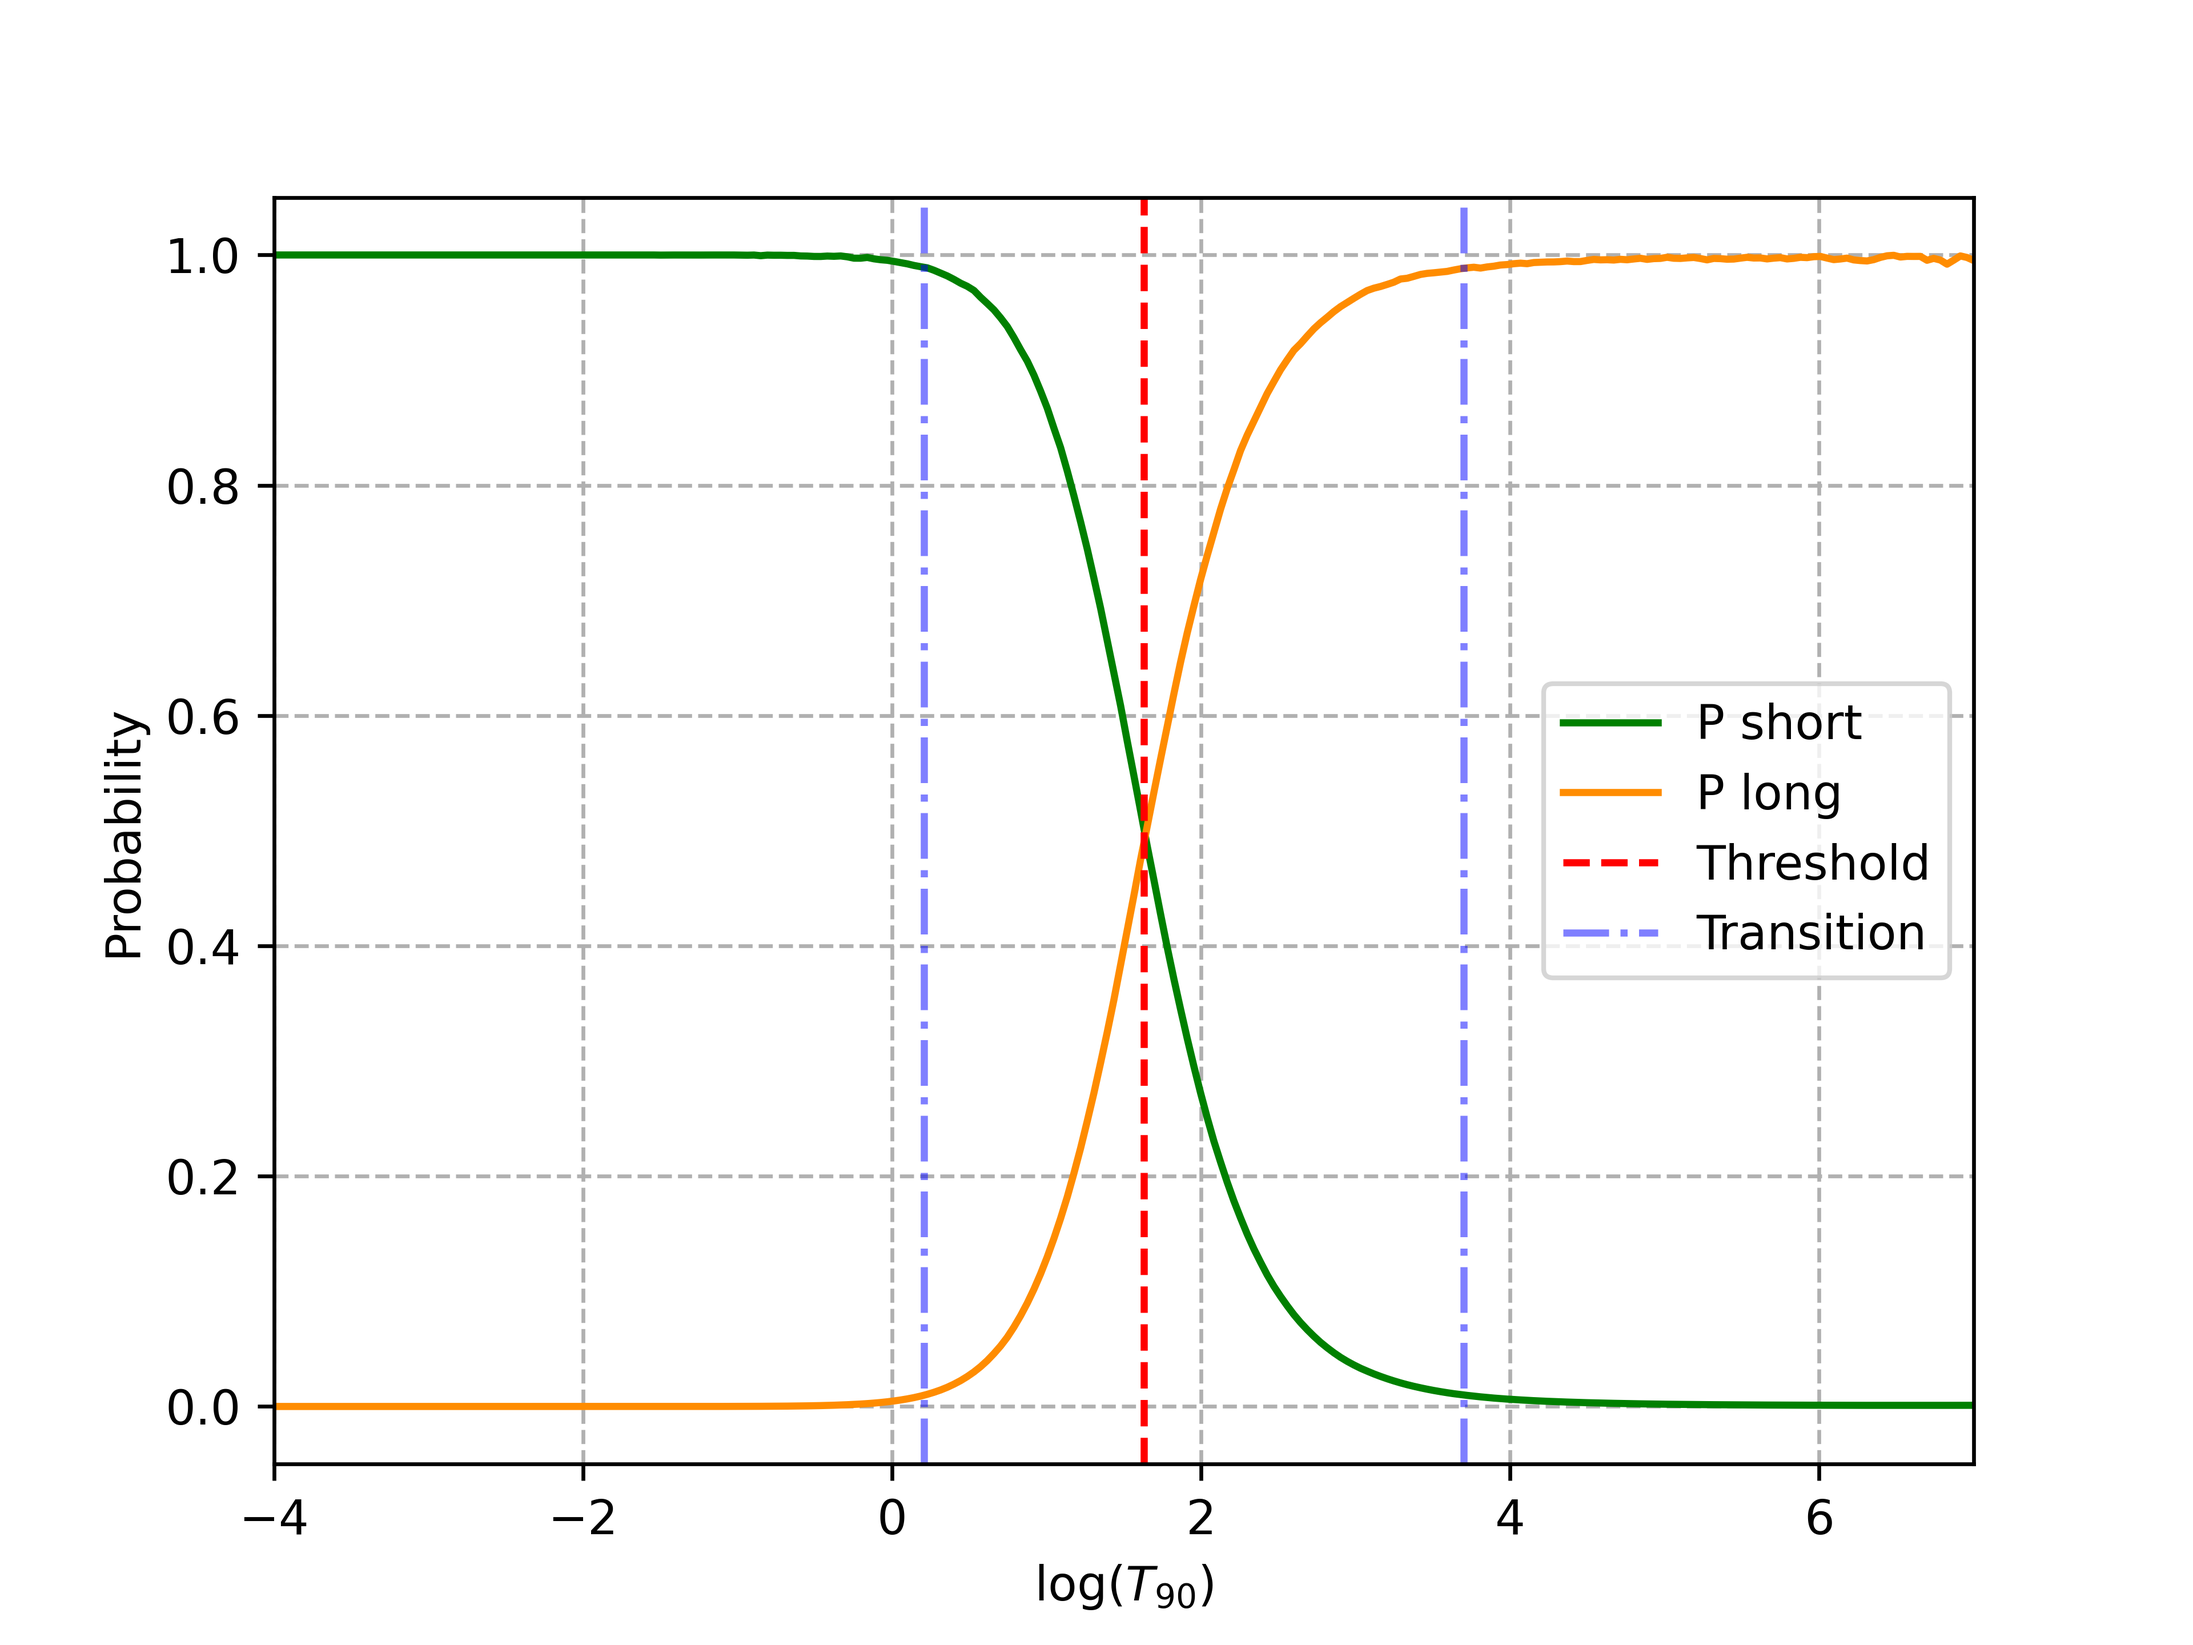
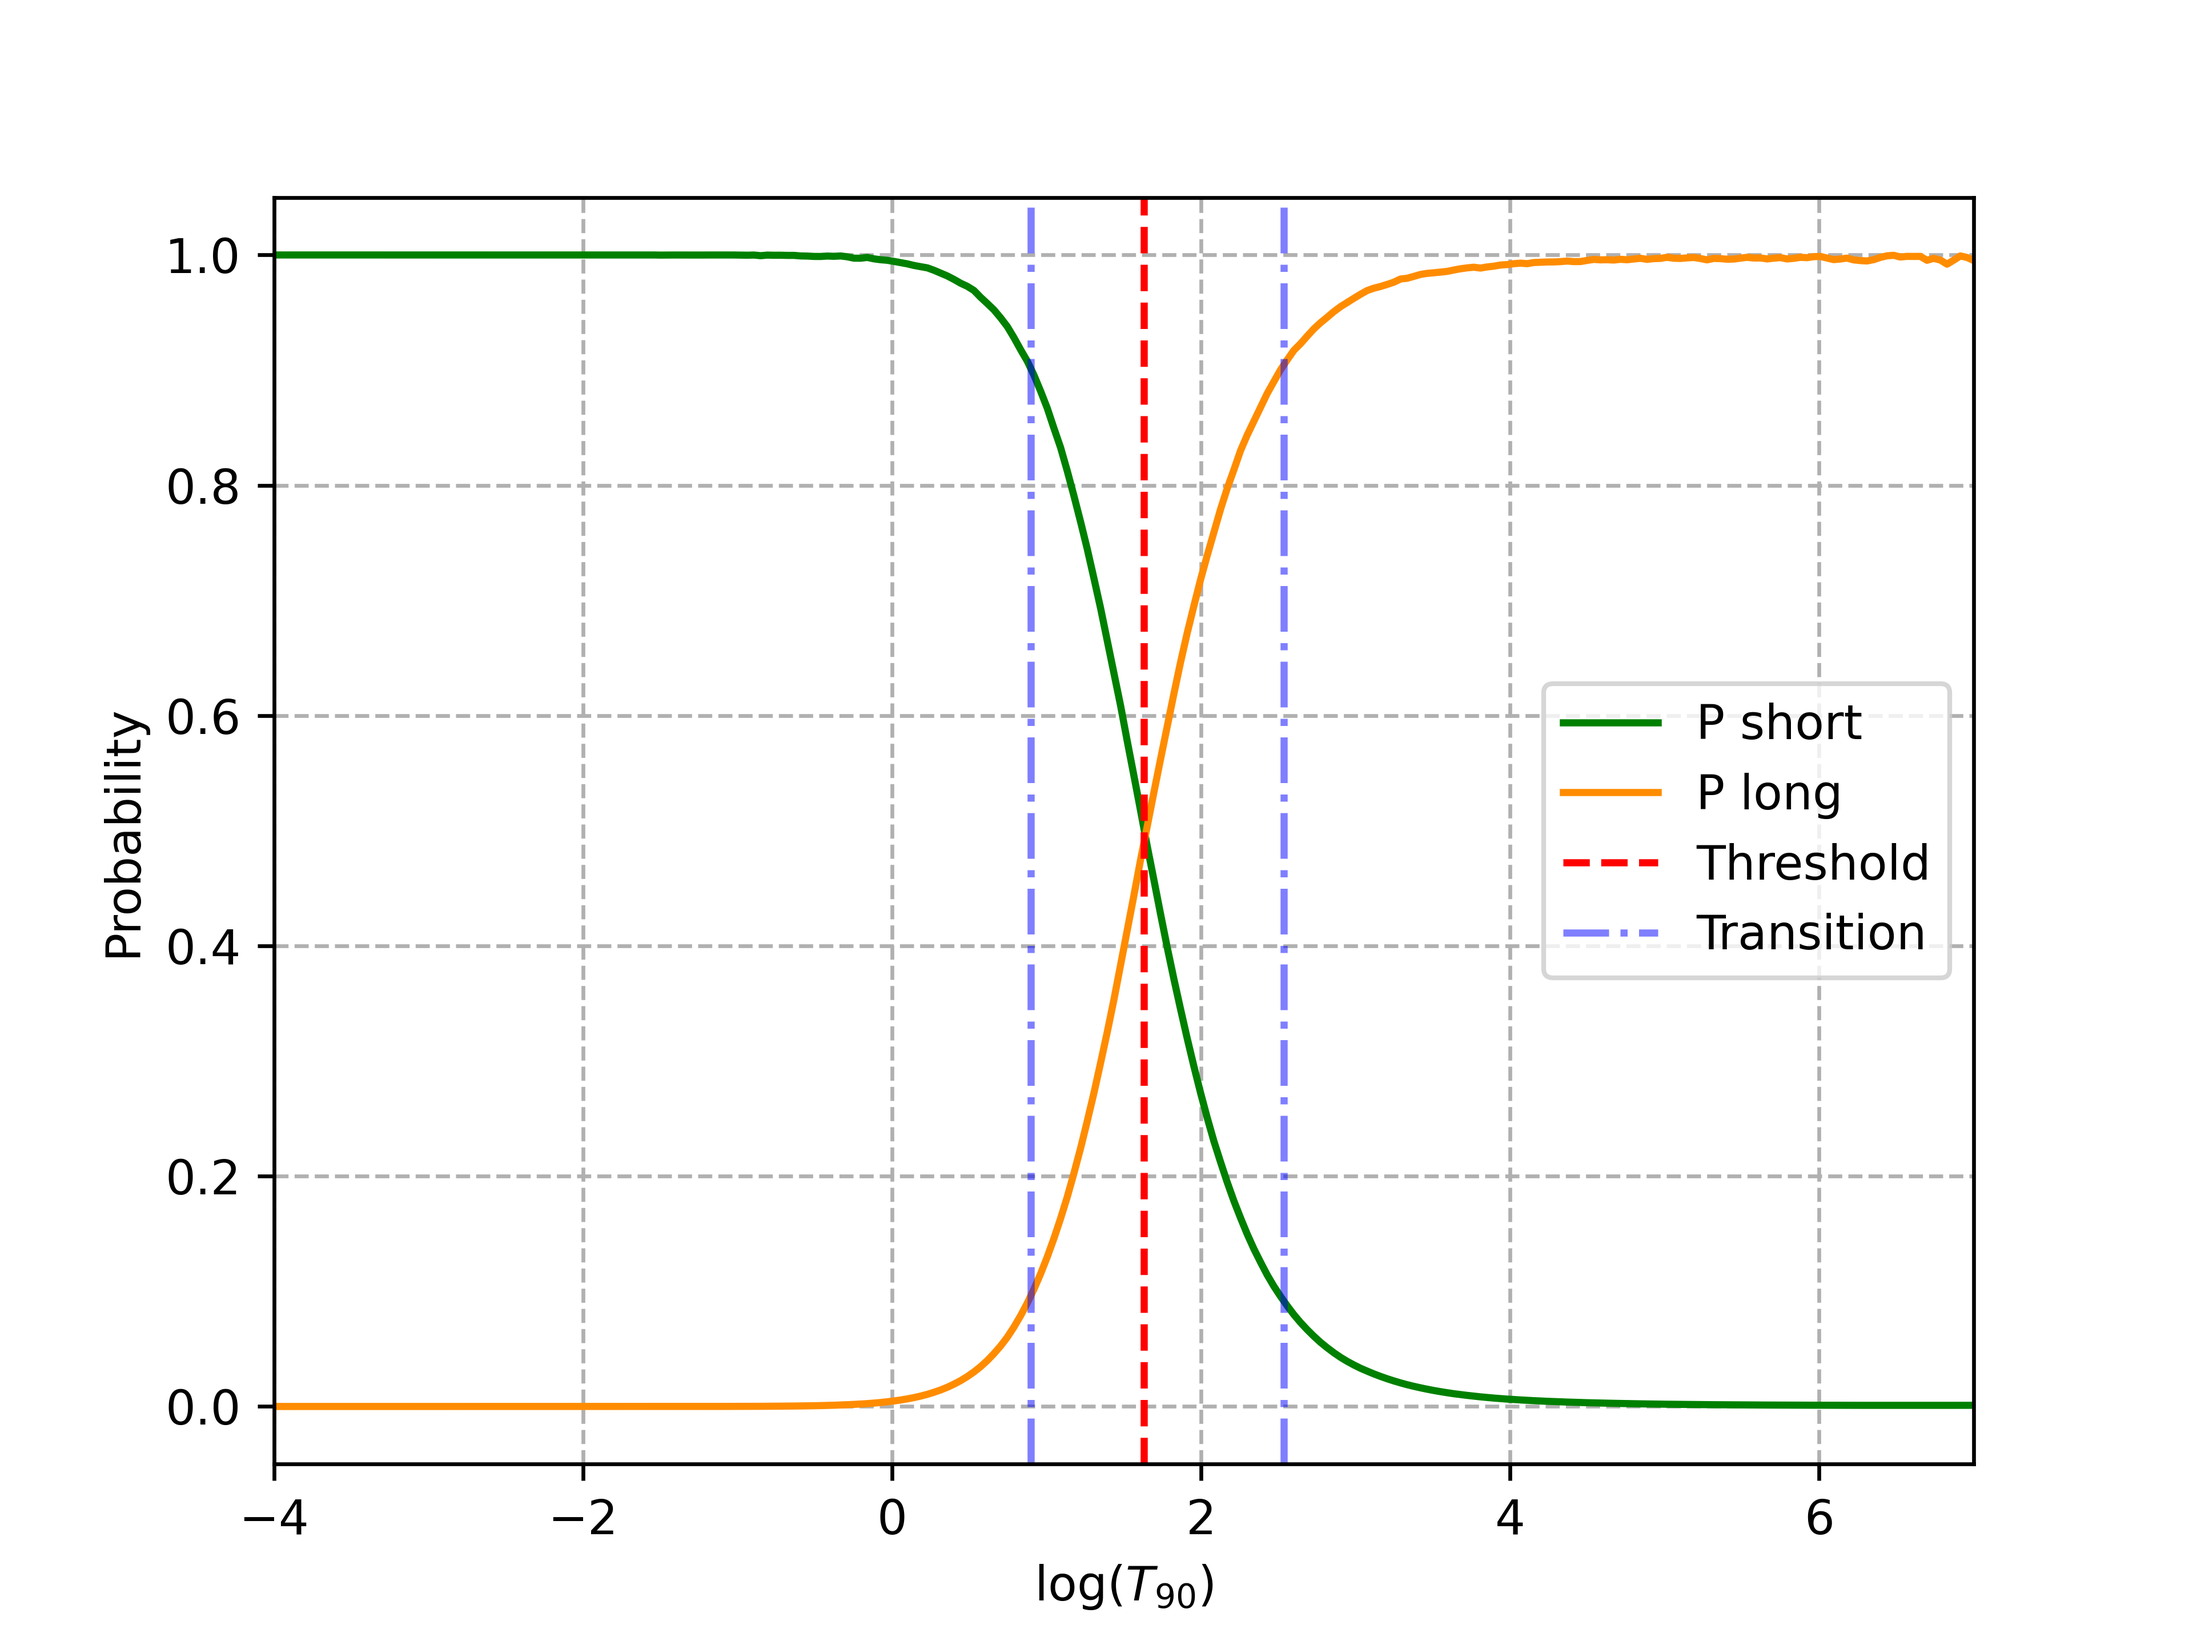
01/04: point 3 Tr=10

diff --git a/GRB_class_2_3.py b/GRB_class_2_3.py
@@ -92,16 +92,16 @@ if __name__ == "__main__":
     print(f"The transition point is at logT = {log_T_trans:.2f}, so for T = {np.exp(log_T_trans):.2f} s")
 
     # transition with delta as fraction? How much difference we want?
-    T = 100                             # threshold for transition
+    Tr = 10                             # threshold for transition
     delta = prob_short/prob_long        # fraction of probabilities
 
-    begin_p = xx[delta<T][0]                    # first x with delta<T
-    begin_m = xx[xx<begin_p][-1]                # last x with delta>T
+    begin_p = xx[delta<Tr][0]                    # first x with delta<Tr
+    begin_m = xx[xx<begin_p][-1]                # last x with delta>Tr
     begin = np.mean([begin_p, begin_m])
     print(f"The transition begins at logT = {begin:.2f}, so T = {np.exp(begin):.2f} s")
 
-    end_m = xx[delta>1/T][-1]                   # last point with delta>1/T
-    end_p = xx[xx>end_m][0]                     # first point with delta>1/T
+    end_m = xx[delta>1/Tr][-1]                   # last point with delta>1/Tr
+    end_p = xx[xx>end_m][0]                     # first point with delta>1/Tr
     end = np.mean([end_p, end_m])
     print(f"The transition ends at logT = {end:.2f}, so T = {np.exp(end):.2f} s")
 
@@ -123,7 +123,7 @@ if __name__ == "__main__":
     # end of point, show and or save images
 
     plt.show()
-    exit()
+    #exit()
 
     fig_class.savefig(main_dir+"\\Results\\GRB_to_class.png", dpi = 600)
     fig_prob.savefig(main_dir+"\\Results\\Prob_of_class.png", dpi = 600)
